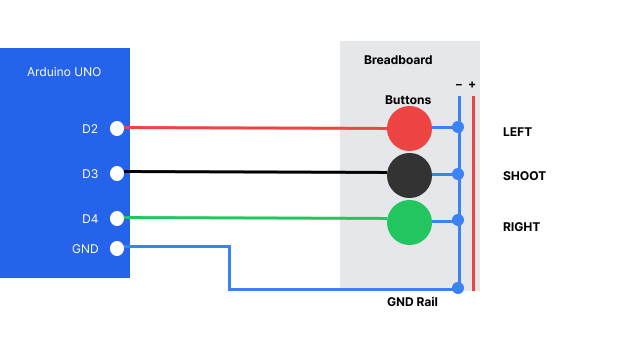
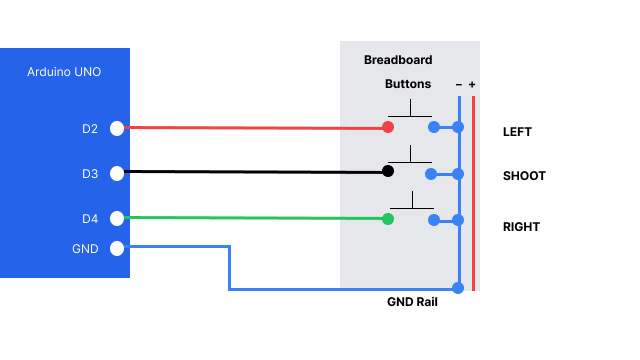
Changed the Schematic View

Changed region(s): [[0.5938, 0.2139, 0.6875, 0.7028]]

diff --git a/documentation.md b/documentation.md
@@ -76,7 +76,7 @@ The player wins by reaching **100 points**. The game ends if an alien reaches th
 
 ### 5. Technical Requirements
 
-- Google Chrome with Web Serial API support
+- Google Chrome with Web Serial API support (needs to be allowed)
 - Arduino UNO connected via USB
 - Three push buttons connected to digital pins D2, D3, and D4
 - Serial communication at 9600 baud
